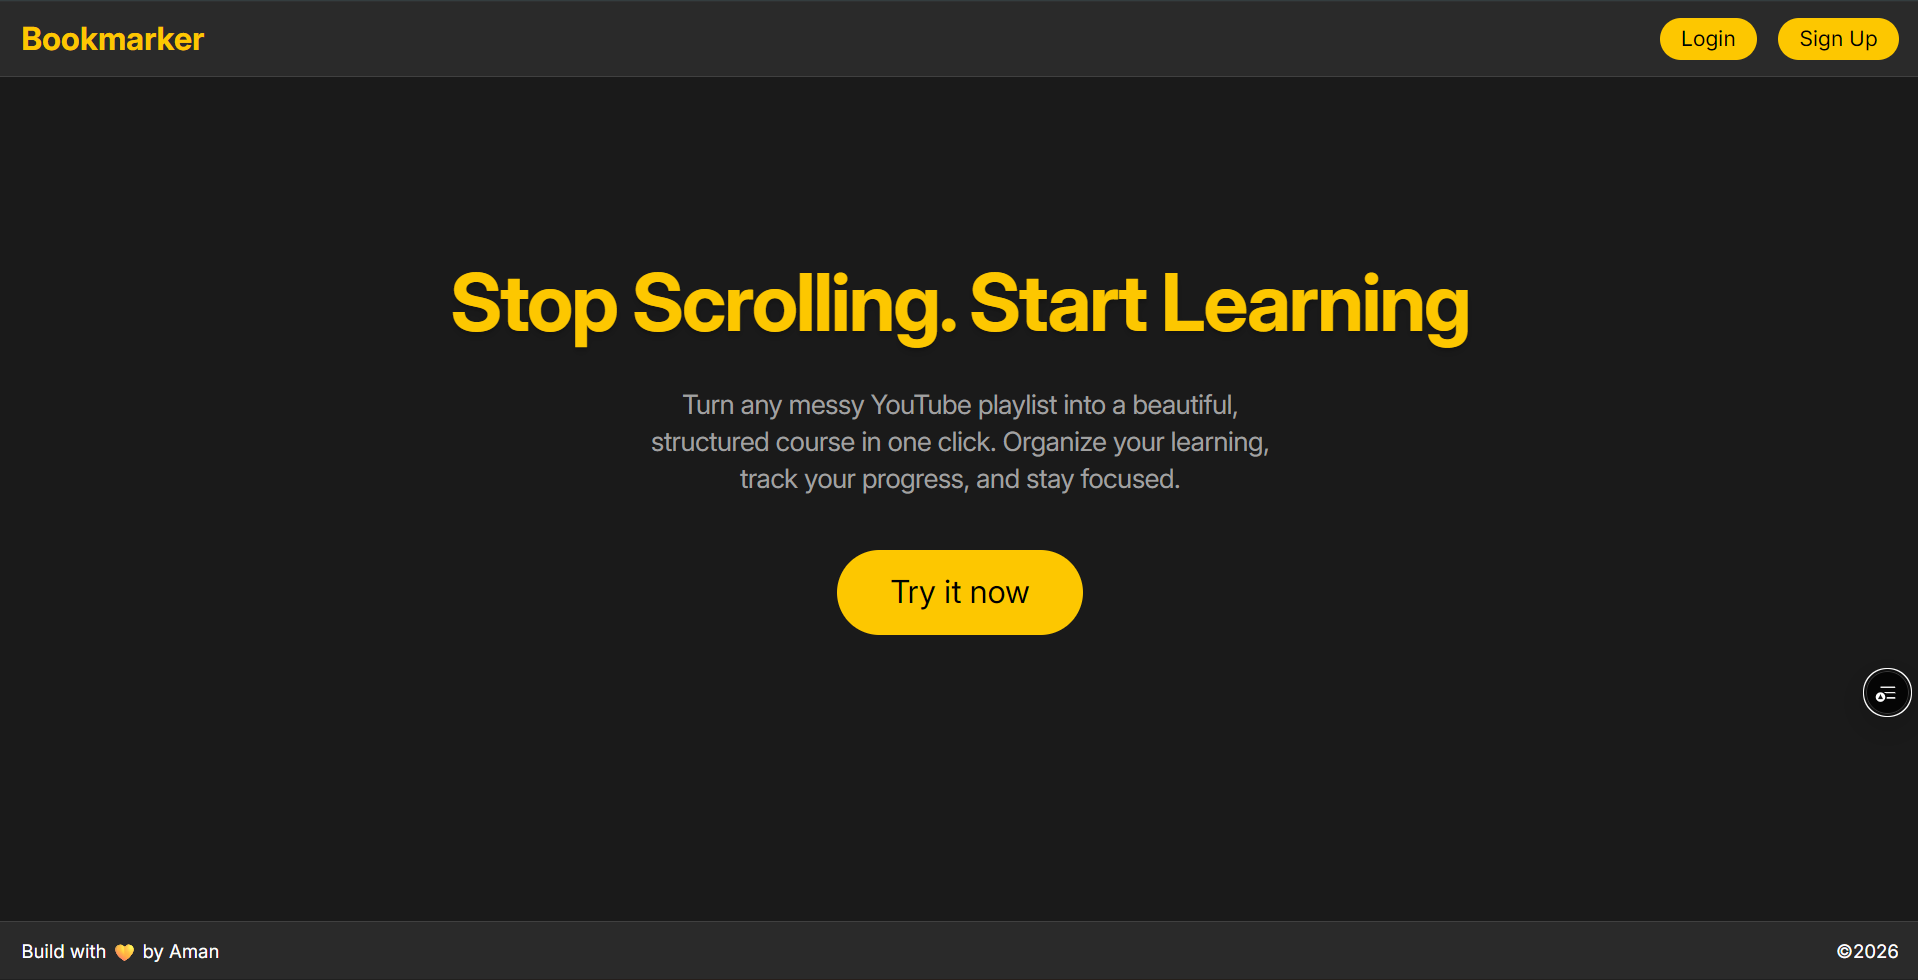
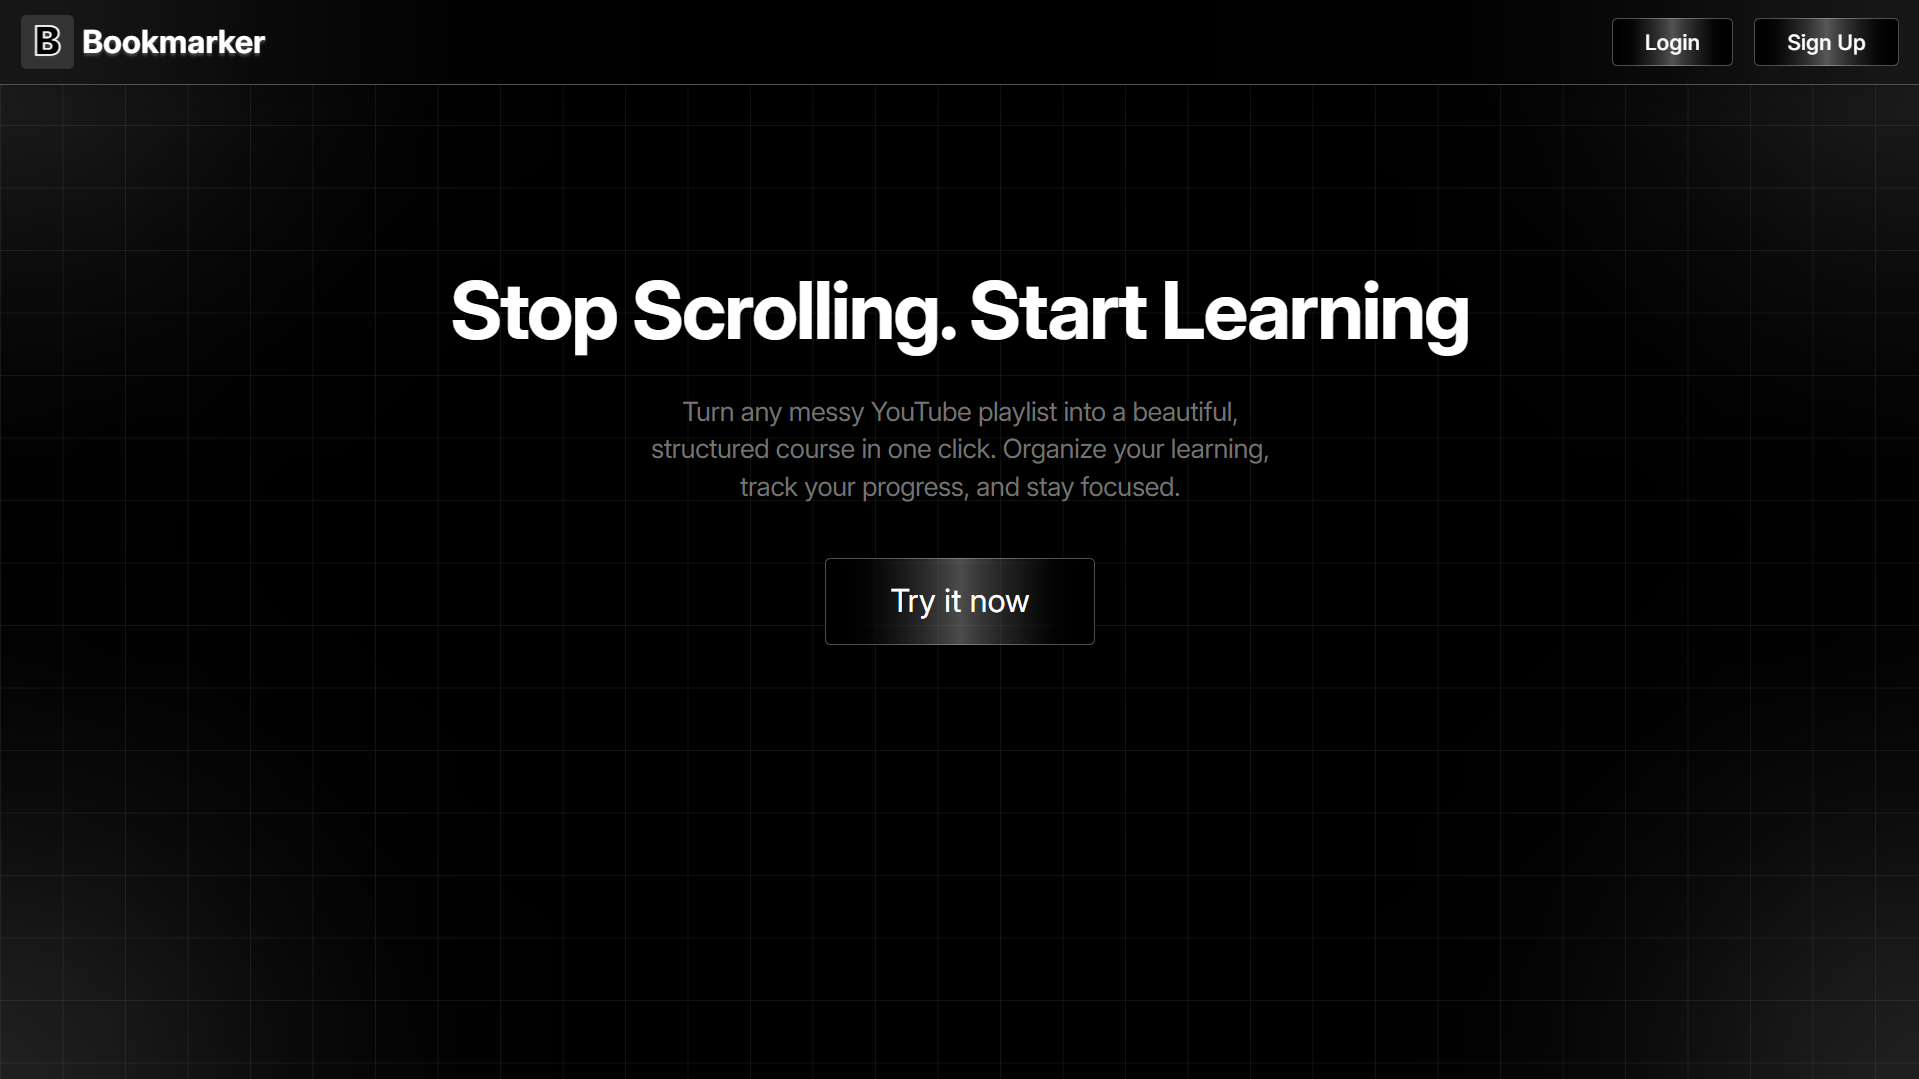
changed bookmarker image and made some UI interaction changes

diff --git a/src/index.css b/src/index.css
@@ -3,14 +3,42 @@
 @import "tailwindcss";
 
 @theme {
-    --font-inter: "Inter";
-    --font-poppins: "Poppins";
-    --font-montserrat: "Montserrat";
-    --background-image-hatch: repeating-linear-gradient(
-        135deg,
-        transparent,
-        transparent,
-        #dddddd 4px,
-        #b4b4b4 1px
-    );
+  --font-inter: "Inter";
+  --font-poppins: "Poppins";
+  --font-montserrat: "Montserrat";
+  --background-image-hatch: repeating-linear-gradient(
+    135deg,
+    transparent,
+    transparent,
+    #dddddd 3.8px,
+    #b4b4b4 1px
+  );
+  /*--background-image-honeycomb:
+    repeating-linear-gradient(
+      0deg,
+      transparent 0%,
+      transparent 25%,
+      #000000 25%,
+      #000000 27%,
+      transparent 27%,
+      transparent 50%
+    ),
+    repeating-linear-gradient(
+      60deg,
+      transparent 0%,
+      transparent 25%,
+      #000000 25%,
+      #000000 27%,
+      transparent 27%,
+      transparent 50%
+    ),
+    repeating-linear-gradient(
+      120deg,
+      transparent 0%,
+      transparent 25%,
+      #000000 25%,
+      #000000 27%,
+      transparent 27%,
+      transparent 50%
+    );*/
 }

diff --git a/src/pages/Home.jsx b/src/pages/Home.jsx
@@ -30,7 +30,7 @@ export const Home = () => {
           <img
             src="./me-anime-dp-crop.png"
             alt=""
-            className="h-20 w-20 rounded-lg  shadow-[0_3px_10px_rgb(0,0,0,0.2)] md:h-28 md:w-34"
+            className="h-16 w-20 rounded-lg object-contain object-center p-1 shadow-[0_3px_10px_rgb(0,0,0,0.2)] md:h-34 md:w-40 md:p-2"
             style={{ imageRendering: "auto" }}
           />
           <div className="flex flex-col items-center justify-center gap-1 py-4">
@@ -53,21 +53,21 @@ export const Home = () => {
           <div className="text-md mt-4 flex items-center justify-center gap-4 text-center md:gap-6 md:text-lg">
             <a
               target="_blank"
-              className="flex w-fit cursor-pointer items-center justify-center gap-1 text-neutral-500 hover:text-neutral-700 active:scale-95"
+              className="flex w-fit cursor-pointer items-center justify-center gap-1 rounded border border-neutral-300 bg-neutral-100 px-3 py-1 text-neutral-500 transition-all duration-300 ease-in-out hover:bg-neutral-200 hover:text-neutral-700 active:scale-95"
               href="https://www.linkedin.com/in/aman-shahi-dev/"
             >
               <IconBrandLinkedinFilled /> <span>LinkedIn</span>
             </a>
             <a
               target="_blank"
-              className="flex w-fit cursor-pointer items-center justify-center gap-1 text-neutral-500 hover:text-neutral-700 active:scale-95"
+              className="flex w-fit cursor-pointer items-center justify-center gap-1 rounded border border-neutral-300 bg-neutral-100 px-3 py-1 text-neutral-500 transition-all duration-300 ease-in-out hover:bg-neutral-200 hover:text-neutral-700 active:scale-95"
               href="https://github.com/aman-shahi-dev"
             >
               <IconBrandGithubFilled /> <span>Github</span>
             </a>
             <a
               target="_blank"
-              className="flex w-fit cursor-pointer items-center justify-center gap-1 text-neutral-500 hover:text-neutral-700 active:scale-95"
+              className="flex w-fit cursor-pointer items-center justify-center gap-1 rounded border border-neutral-300 bg-neutral-100 px-3 py-1 text-neutral-500 transition-all duration-300 ease-in-out hover:bg-neutral-200 hover:text-neutral-700 active:scale-95"
               href="https://x.com/TheBinaryCoder0"
             >
               <IconBrandXFilled /> <span>Twitter</span>
@@ -140,8 +140,8 @@ export const Home = () => {
               <IconBrandLinkedinFilled />
             </a>
           </div>
-          <p className="mt-4 w-full text-center text-sm text-shadow-lg">
-            Build with 💗 by Aman
+          <p className="mx-auto mt-4 w-fit rounded-full border border-neutral-300 bg-neutral-100 px-4 py-1 text-center text-sm text-shadow-lg">
+            Build with ❤️ by Aman
           </p>
         </div>
       </div>

diff --git a/src/App.jsx b/src/App.jsx
@@ -12,7 +12,7 @@ export const App = () => {
   return (
     <BrowserRouter>
       <Analytics />
-      <div className="bg-hatch bg-fixed font-inter">
+      <div className="bg-hatch font-inter bg-fixed">
         <Navbar />
         <Container>
           <Routes>

diff --git a/src/components/Navbar.jsx b/src/components/Navbar.jsx
@@ -3,7 +3,7 @@ import { Link } from "react-router-dom";
 export const Navbar = () => {
   return (
     <nav className="sticky top-0 z-50 mx-auto flex h-16 w-full max-w-4xl items-center justify-center border-r border-b border-l border-neutral-300 bg-white px-4">
-      <div className="flex max-w-2xl flex-1 items-center justify-between rounded-full bg-white px-4 py-2 shadow-[0px_0px_0px_2px_rgba(0,0,0,0.1)] backdrop-blur-sm md:px-10">
+      <div className="flex max-w-2xl flex-1 items-center justify-between rounded-full bg-white px-4 py-2 shadow-[0px_0px_5px_1px_rgba(0,0,0,0.2)] backdrop-blur-sm md:px-10">
         <Link to="/" className="text-sm font-bold md:text-xl">
           <img
             src="./as-logo.svg"